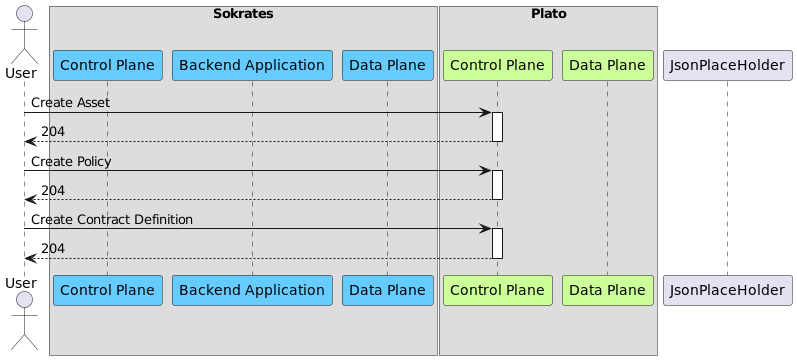
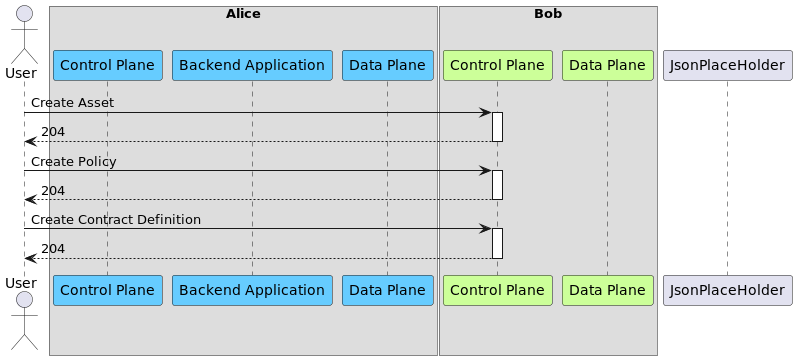
update transfer md

diff --git a/docs/data-transfer/Transfer Data.md b/docs/data-transfer/Transfer Data.md
@@ -1,61 +1,23 @@
 # Transfer Data
 
-This document will showcase a data transfer between two connectors. It uses two connectors from the *All-in-one deployment* of this repository.
+This document will showcase a data transfer between two connectors.
 
----
+For this transfer connector **Bob** will act as data provider, and connector **Alice** will act as data
+consumer. But the roles could be inverse as well. 
 
-Before running the commands setup the all-in-one deployment from the. This is documented in it's
-[README.md](../../edc-tests/src/main/resources/deployment/helm/all-in-one/README.md).
-
-Please install [jq](https://stedolan.github.io/jq/), as it is used in the bash calls of this document.
-
----
-
-For this transfer connector **Plato** will act as data provider, and connector **Sokrates** will act as data
-consumer. But the roles could be inverse as well.
+> Please note: Before running the examples the corresponding environment variables must be set.
 
 **Contents**
 
-0. Before running the demo
-    1. Ensure all pods are running
-    2. Set environment variables
 1. Setup Data Offer
 2. Request Contract Offers
 3. Negotiate Contract
 4. Transfer Data
 5. Verify Data Transfer
 
-## 0. Before Running the demo
-
-### 0.1 Wait until all pods are running
-
-Get all the pods and wait until all pods are in a `Running` state before executing the next steps.
-Please ignore that the EDC applications will crash 2-3 times during the start-up phase. This is normal.
-
-**Run**
-
-```bash
-minikube kubectl -- -n edc-all-in-one get pods
-```
-
-### 0.2 Set environment variables used in subsequent calls
-
-Initialize the following environment variables, that are used in the upcoming API calls.
-
-**Run**
-
-```bash
-export PLATO_DATAMGMT_URL=$(minikube service plato-edc-controlplane -n edc-all-in-one --url | sed -n 3p)
-export PLATO_IDS_URL="http://plato-edc-controlplane:8282"
-export SOKRATES_DATAMGMT_URL=$(minikube service sokrates-edc-controlplane -n edc-all-in-one --url | sed -n 3p)
-export SOKRATES_BACKEND_URL=$(minikube service sokrates-backend-application -n edc-all-in-one --url | sed -n 2p)
-```
-
-Please note: The IDS URL is used for DAPS Token Audience validation. Therefore it must be the internal IDS url, that is configured inside the connector.
-
 ## 1. Setup Data Offer
 
-Set up a data offer in **Plato**, so that **Sokrates** has something to consume.
+Set up a data offer in **Bob**, so that **Alice** has something to consume.
 
 In case you are unfamiliar with the EDC terms `Asset`, `Policy` or `ContractDefinition` please have a look at the official open
 source documentation ([link](https://github.com/eclipse-dataspaceconnector/DataSpaceConnector/blob/main/docs/developer/architecture/domain-model.md)).
@@ -70,7 +32,7 @@ For simplicity `https://jsonplaceholder.typicode.com/todos/1` is used as data so
 other API, that is reachable from the Provider Data Plane.
 
 ```bash
-curl -X POST "$PLATO_DATAMGMT_URL/data/assets" \
+curl -X POST "$BOB_DATAMGMT_URL/data/assets" \
     --header 'X-Api-Key: password' \
     --header 'Content-Type: application/json' \
     --data '{
@@ -91,7 +53,7 @@ curl -X POST "$PLATO_DATAMGMT_URL/data/assets" \
 ```
 
 ```bash
-curl -X POST "${PLATO_DATAMGMT_URL}/data/policydefinitions" \
+curl -X POST "${BOB_DATAMGMT_URL}/data/policydefinitions" \
     --header 'X-Api-Key: password' \
     --header 'Content-Type: application/json' \
     --data '{
@@ -113,7 +75,7 @@ curl -X POST "${PLATO_DATAMGMT_URL}/data/policydefinitions" \
 
 
 ```bash
-curl -X POST "${PLATO_DATAMGMT_URL}/data/contractdefinitions" \
+curl -X POST "${BOB_DATAMGMT_URL}/data/contractdefinitions" \
     --header 'X-Api-Key: password' \
     --header 'Content-Type: application/json' \
     --data '{
@@ -133,7 +95,7 @@ curl -X POST "${PLATO_DATAMGMT_URL}/data/contractdefinitions" \
 
 ## 2. Request Contract Offer Catalog
 
-In this step Sokrates gets told to request contract offers from another connector (in this case Plato). Sokrates will
+In this step Alice gets told to request contract offers from another connector (in this case Bob). Alice will
 then request the catalog over IDS messaging.
 
 For IDS messaging connectors will identify each other using the configured IDS DAPS. Therefore, it is important that
@@ -144,8 +106,8 @@ connectors, that intent to send messages to each other, have the same DAPS insta
 **Run**
 
 ```bash
-curl -G -X GET "${SOKRATES_DATAMGMT_URL}/data/catalog" \
-    --data-urlencode "providerUrl=${PLATO_IDS_URL}/api/v1/ids/data" \
+curl -G -X GET "${ALICE_DATAMGMT_URL}/data/catalog" \
+    --data-urlencode "providerUrl=${BOB_IDS_URL}/api/v1/ids/data" \
     --header 'X-Api-Key: password' \
     --header 'Content-Type: application/json' \
     -s | jq
@@ -168,12 +130,12 @@ and checking whether the `contractAgreementId` is set. This might take a few sec
 
 ```bash
 export NEGOTIATION_ID=$( \
-    curl -X POST "${SOKRATES_DATAMGMT_URL}/data/contractnegotiations" \
+    curl -X POST "${ALICE_DATAMGMT_URL}/data/contractnegotiations" \
         --header "X-Api-Key: password" \
         --header "Content-Type: application/json" \
         --data "{
                     \"connectorId\": \"foo\",
-                    \"connectorAddress\": \"${PLATO_IDS_URL}/api/v1/ids/data\",
+                    \"connectorAddress\": \"${BOB_IDS_URL}/api/v1/ids/data\",
                     \"offer\": {
                         \"offerId\": \"1:foo\",
                         \"assetId\": \"1\",
@@ -197,7 +159,7 @@ export NEGOTIATION_ID=$( \
 
 
 ```bash
-curl -X GET "${SOKRATES_DATAMGMT_URL}/data/contractnegotiations/${NEGOTIATION_ID}" \
+curl -X GET "${ALICE_DATAMGMT_URL}/data/contractnegotiations/${NEGOTIATION_ID}" \
     --header 'X-Api-Key: password' \
     --header 'Content-Type: application/json' \
     -s | jq
@@ -214,7 +176,7 @@ the transfer process is `COMPLETED`.
 
 ```bash
 export CONTRACT_AGREEMENT_ID=$( \
-    curl -X GET "$SOKRATES_DATAMGMT_URL/data/contractnegotiations/$NEGOTIATION_ID" \
+    curl -X GET "$ALICE_DATAMGMT_URL/data/contractnegotiations/$NEGOTIATION_ID" \
     --header 'X-Api-Key: password' \
     --header 'Content-Type: application/json' \
     -s | jq -r '.contractAgreementId')
@@ -223,13 +185,13 @@ export CONTRACT_AGREEMENT_ID=$( \
 ```bash
 export TRANSFER_PROCESS_ID=$(tr -dc '[:alnum:]' < /dev/urandom | head -c20)
 export TRANSFER_ID=$( \
-    curl -X POST "${SOKRATES_DATAMGMT_URL}/data/transferprocess" \
+    curl -X POST "${ALICE_DATAMGMT_URL}/data/transferprocess" \
     --header "X-Api-Key: password" \
     --header "Content-Type: application/json" \
     --data "{
                 \"id\": \"${TRANSFER_PROCESS_ID}\", 
                 \"connectorId\": \"foo\", 
-                \"connectorAddress\": \"${PLATO_IDS_URL}/api/v1/ids/data\", 
+                \"connectorAddress\": \"${BOB_IDS_URL}/api/v1/ids/data\", 
                 \"contractId\": \"${CONTRACT_AGREEMENT_ID}\", 
                 \"assetId\": \"1\", 
                 \"managedResources\": \"false\", 
@@ -239,7 +201,7 @@ export TRANSFER_ID=$( \
 ```
 
 ```bash
-curl -X GET "$SOKRATES_DATAMGMT_URL/data/transferprocess/$TRANSFER_ID" \
+curl -X GET "$ALICE_DATAMGMT_URL/data/transferprocess/$TRANSFER_ID" \
     --header 'X-Api-Key: password' \
     --header 'Content-Type: application/json' \
     -s | jq
@@ -253,7 +215,7 @@ locally. In this demo the transfer can be verified by executing a simple `cat` c
 ![Sequence 1](diagrams/transfer_sequence_5.png)
 
 ```bash
-curl -X GET "${SOKRATES_BACKEND_URL}/${TRANSFER_PROCESS_ID}" \
+curl -X GET "${ALICE_BACKEND_URL}/${TRANSFER_PROCESS_ID}" \
     --header 'Accept: application/octet-stream' \
     -s | jq
 ```
